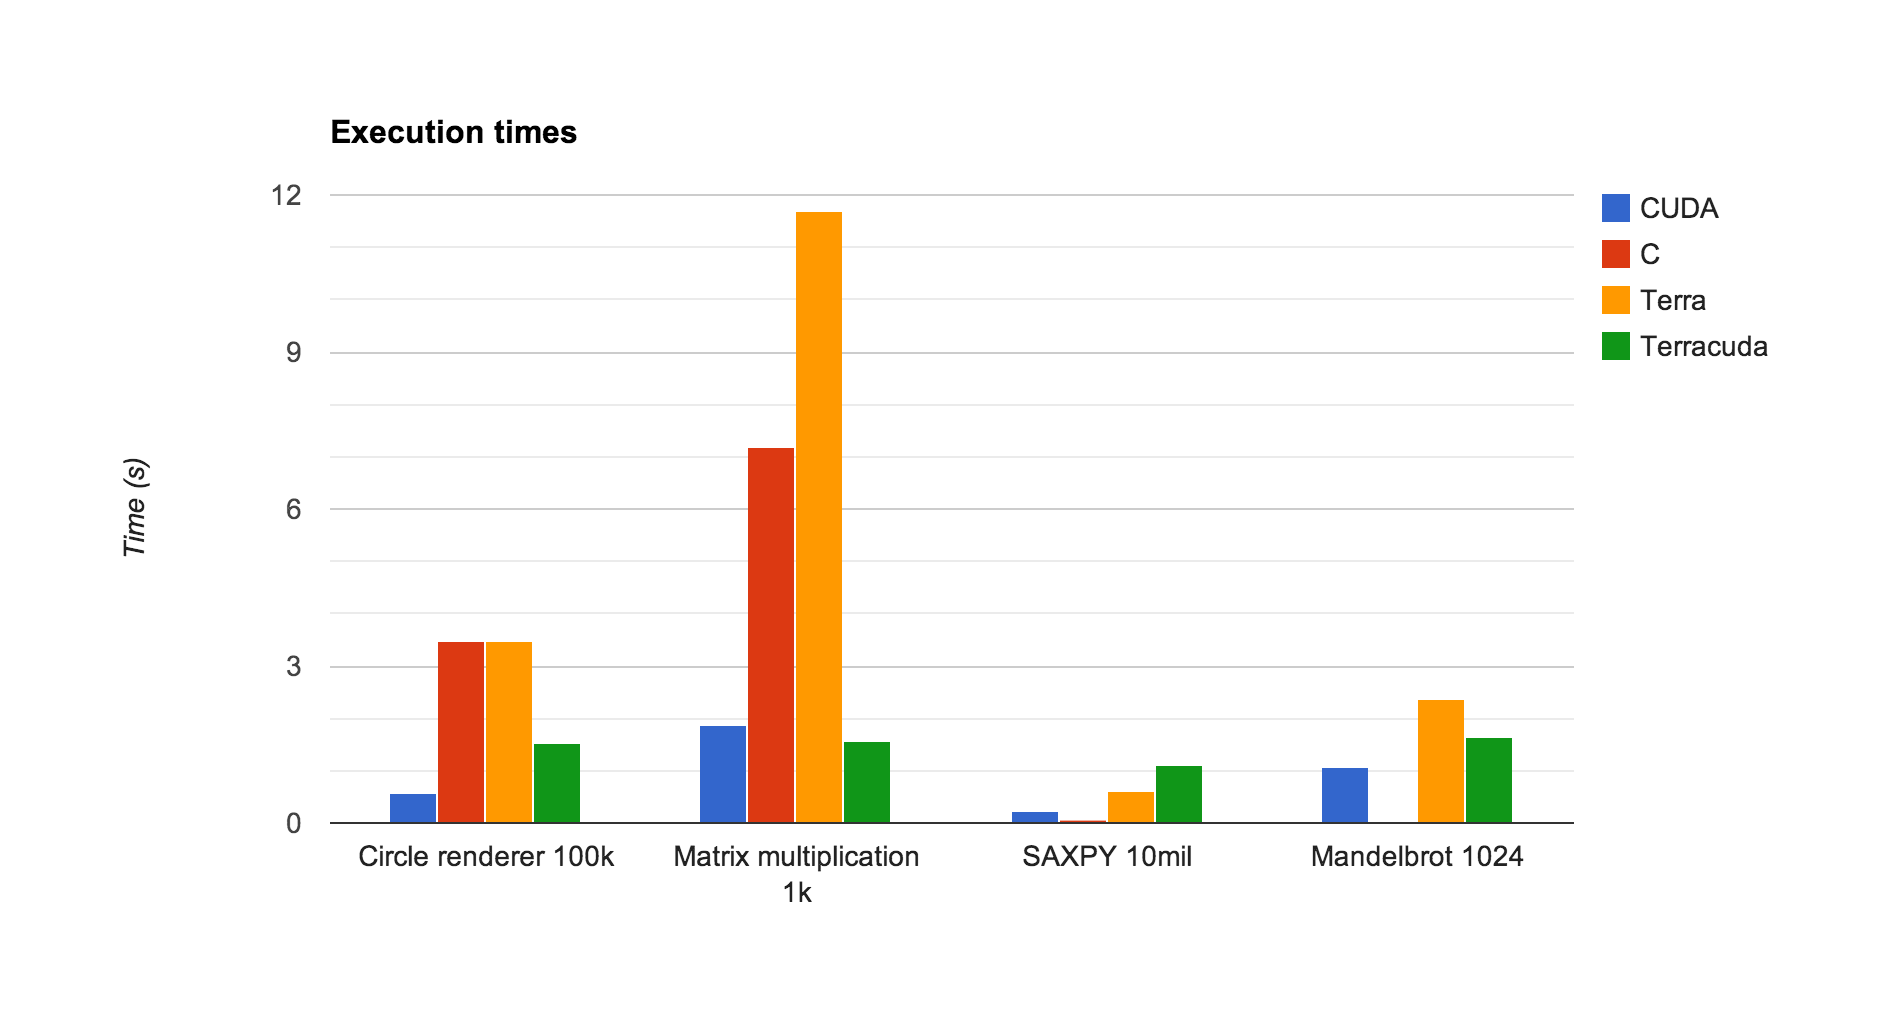
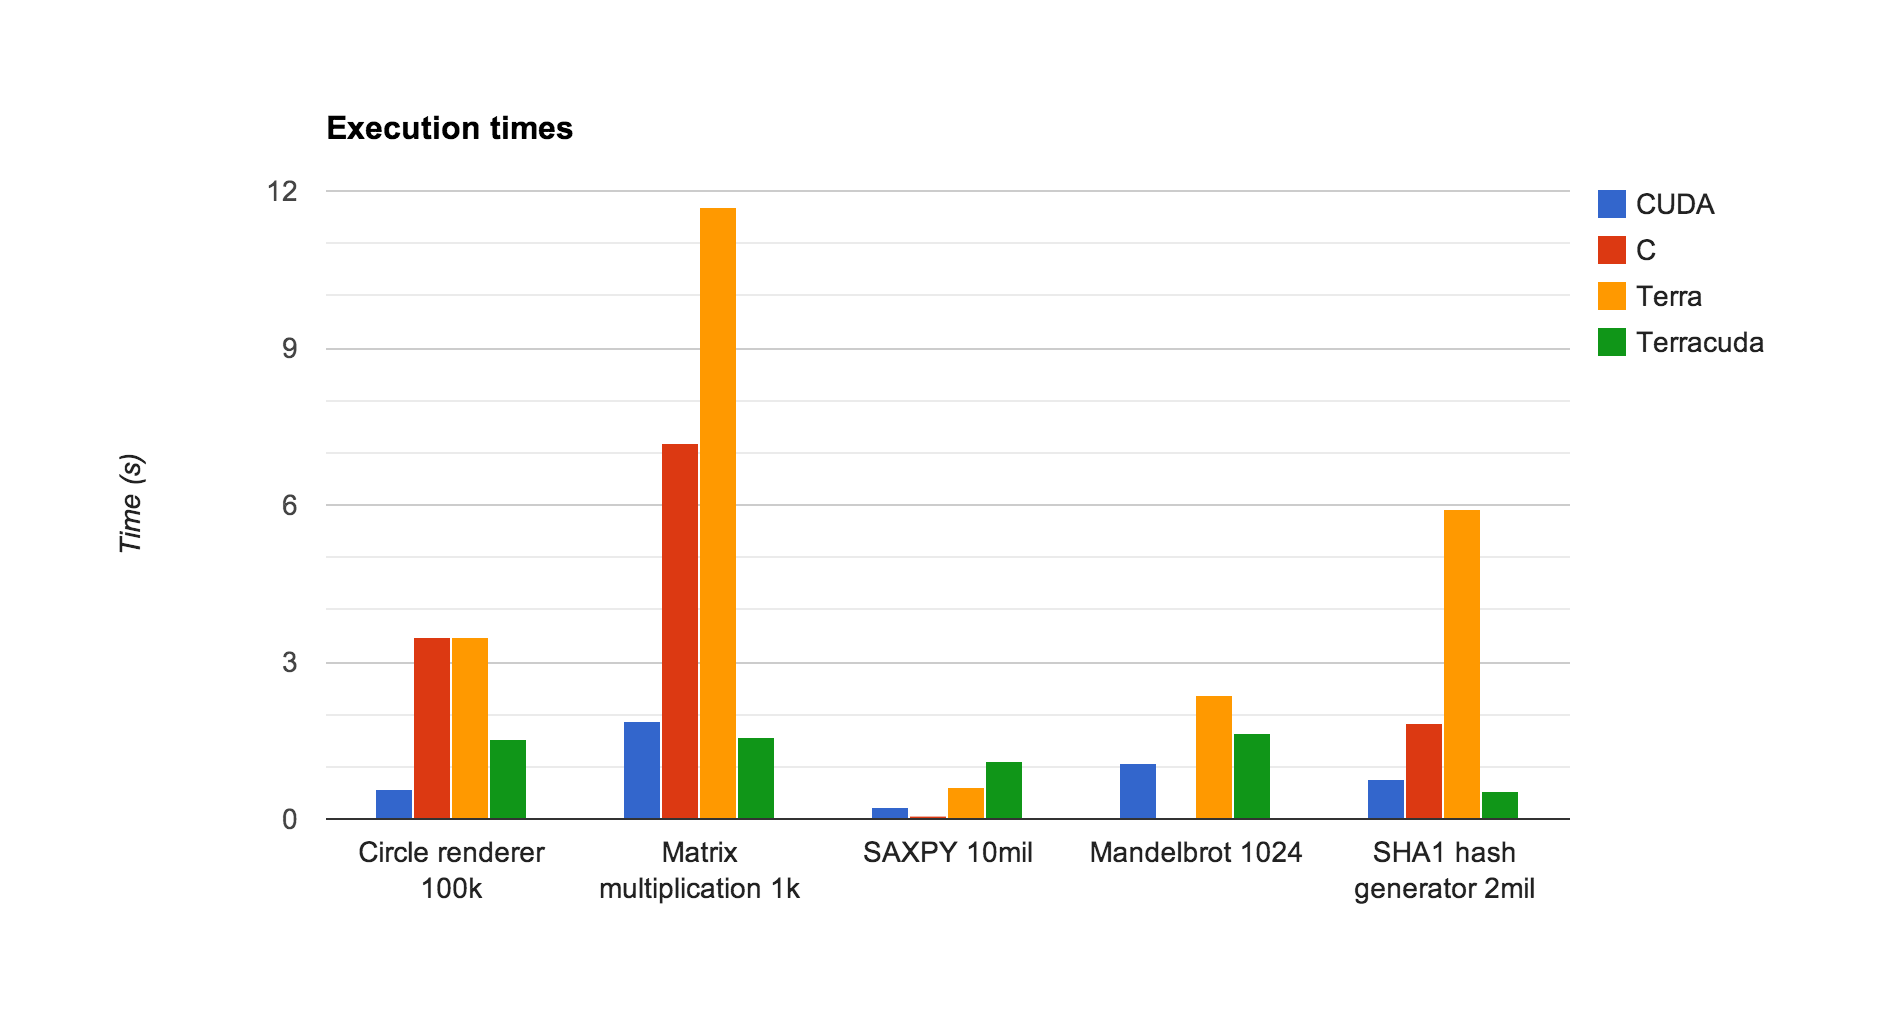
Last few changes

diff --git a/index.html b/index.html
@@ -72,7 +72,7 @@ saxpy(P, N)</code></pre>
         </div>
       </div>
       
-      <p>Both pieces of code above will produce the same output (i.e. <code>P.C</code> will contain the correct values). You may notice, however, that device memory, thread indexing, kernel calls, etc. are all conspicuously absent from the Terracuda code. This is all handled by the API. Here's how it works: consider that you have some table <code>P</code> a Terra function <code>F</code> that operates on <code>P</code> which you want to convert to GPU code. The process is as follows:</p>
+      <p>Both pieces of code above will produce the same output (i.e. <code>P.C</code> will contain the correct values). You may notice, however, that device memory, thread indexing, kernel calls, etc. are all conspicuously absent from the Terracuda code. This is all handled by the API. Here's how it works: consider that you have some table <code>P</code> and a Terra function <code>F</code> that operates on <code>P</code> which you want to convert to GPU code. The process is as follows:</p>
       <ol>
         <li>Run <code>make_struct_type(P)</code>. Because Terra types are values, Lua can loop through <code>P</code> and generate a new <code>struct</code> type that corresponds exactly with the given input. So in the above <code>SAXPY</code> example, the generated type is <code>struct P { X: &int, Y: &int, a: double }</code>.</li>
         <li>Run <code>make_kernel(F)</code>. This pre-allocates device memory for every entry inside the struct if possible (the exception being if we have variable length arrays). Then, it JIT-compiles <code>F</code> to CUDA code for later use. Lastly, <code>make_kernel</code> returns a closure over these values which will copy the input into the allocated device memory, run the kernel on the device parameters, and copy the modified memory back to the host.</li>
@@ -115,6 +115,8 @@ kernel(A)</code></pre>
       <img src="graph1.png" width="800"  />
       <p>So far, Terracuda (despite being JIT-compiled in a dynamically typed language) is mostly competitive with C and CUDA. In some cases, like with matrix multiplication, it actually performs better than hand-written CUDA! It doesn't work as well, however, on simple programs like <code>SAXPY</code> as the overhead of compiling/spinning up a kernel is greater than any performance gains. It's worth noting that Terracuda spends, on average, about 3x as much time booting up its kernel than CUDA, primarily because CUDA programs are precompiled and Terracuda is JIT-compiled, so our API does bring greater overhead (noticeable in the poor results for <code>SAXPY</code>).</p>
       <p>Experience leads us to believe that the remaining difference between Terracuda and CUDA could be eliminated by implementing support for constant and shared memory annotations. The circle renderer, for example, has a loop over a set of circles that updates an array <code>data</code> for every circle. By switching the updates to <code>data</code> with a temporary array not in global memory which gets copied at the end, we found a 45% decrease in execution time in the Terracuda implementation (from about 2.3s to 1.5s). However, arrays like <code>position</code> and <code>radius</code> are still stored in global memory (as opposed to constant memory as is used in the CUDA version), so CUDA still beats out Terracuda on the circle renderer.</p>
+      <p>Terracuda also performs better than the CUDA SHA1 hash generator we wrote, and while promising, doesn't necessarily mean we expect Terracuda to be faster than CUDA. Due to time constraints, the CUDA SHA1 code we wrote could be made more efficient by perhaps utilizing shared or constant memory on the GPU.</p>
+      <p>The only exception to this was the hash generator, in which both the CUDA and Terracuda versions were of similar length. We attribute this to the fact that C has much simpler ways of dealing with individual bits and bytes (Lua 5.2 does not support bitwise operations), and that when implementing the SHA1 hashing algorithm, the majority of the work is in the algorithm itself, not in the C/CUDA/Terra setup. So even though it was definitely simpler to use Terracuda in this case, the algorithm itself requires a minimum number of steps, which translate directly into lines of code.</p>
       <p>Code base comparison also yielded favorable results. Terracuda was consistently less than <code>1/2</code> the size of its CUDA counterpart, which emphasizes the concise nature of both Lua and the API we've created. Granted, lines of code is not a perfect benchmark for good/bad code (since it also includes comments/includes/etc.), but it gives us a good impression of relative code sizes. See the results:</p>
 
       <img src="graph2.png" width="800"  />
